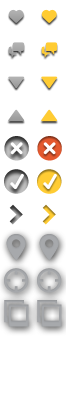
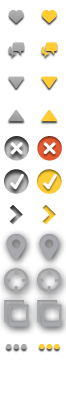
add pallette for flagging / deleting images

Changed region(s): [[0.5758, 0.8485, 0.9091, 0.9091], [0.0909, 0.8485, 0.4242, 0.9091]]

diff --git a/theme/skol/css/theme.css b/theme/skol/css/theme.css
@@ -359,6 +359,9 @@
 .action-icons .ui-icon-pics {
   background-position: 0px -198px;
 }
+.action-icons .ui-icon-more {
+  background-position: 0px -220px;
+}
 .action-icons.selected .ui-icon-heart,
 .action-icons.ui-btn-hover-a .ui-icon-heart,
 .action-icons.ui-btn-down-a .ui-icon-heart,
@@ -568,6 +571,27 @@
 .action-icons.ui-btn-down-z .ui-icon-pics,
 .action-icons.ui-btn-active-z .ui-icon-pics {
   background-position: -22px -198px;
+}
+.action-icons.selected .ui-icon-more,
+.action-icons.ui-btn-hover-a .ui-icon-more,
+.action-icons.ui-btn-down-a .ui-icon-more,
+.action-icons.ui-btn-active-a .ui-icon-more,
+.action-icons.ui-btn-hover-b .ui-icon-more,
+.action-icons.ui-btn-down-b .ui-icon-more,
+.action-icons.ui-btn-active-b .ui-icon-more,
+.action-icons.ui-btn-hover-c .ui-icon-more,
+.action-icons.ui-btn-down-c .ui-icon-more,
+.action-icons.ui-btn-active-c .ui-icon-more,
+.action-icons.ui-btn-hover-d .ui-icon-more,
+.action-icons.ui-btn-down-d .ui-icon-more,
+.action-icons.ui-btn-active-d .ui-icon-more,
+.action-icons.ui-btn-hover-e .ui-icon-more,
+.action-icons.ui-btn-down-e .ui-icon-more,
+.action-icons.ui-btn-active-e .ui-icon-more,
+.action-icons.ui-btn-hover-z .ui-icon-more,
+.action-icons.ui-btn-down-z .ui-icon-more,
+.action-icons.ui-btn-active-z .ui-icon-more {
+  background-position: -22px -220px;
 }
 .dark-icons .ui-btn .ui-btn-inner .ui-icon {
   background-image: url('../gfx/action-icons-dark.png');
@@ -1793,7 +1817,7 @@ a.ui-link-inherit {
   background: none!important;
 }
 .ui-body-b {
-  background: #000000;
+  background: #2a2a2a;
   background-image: url('../gfx/bg-texture-dark.gif');
   border: none;
 }
@@ -4414,11 +4438,33 @@ div[data-role="content"] .s-feed-header.s-inline-header .s-username .s-small-tex
 .s-image-item-block .s-image-description .x-goto-spot {
   color: #ffcc33;
 }
-.s-image-item-block .s-image-item-base .s-text-symbol {
+.s-image-item-block .s-image-item-base .x-comment .s-text-symbol {
   display: none;
 }
-.s-image-item-block .s-image-item-base .s-hide-text {
+.s-image-item-block .s-image-item-base .x-comment .s-hide-text {
   display: inline-block;
+}
+.s-image-item-block .s-image-item-base .x-favorite .s-text-symbol {
+  display: inline-block;
+}
+.s-image-item-block .s-image-item-base .x-favorite .s-hide-text {
+  display: none;
+}
+.s-image-item-block .s-image-item-base .x-favorite[data-count="0"] .ui-btn-inner {
+  padding: 0 6px!important;
+}
+.s-image-item-block .s-image-item-base .x-favorite[data-count="0"] .ui-btn-inner .ui-icon {
+  left: 1px;
+}
+.s-image-item-block .s-image-item-base .x-more-button.ui-btn.action-icons .s-text-symbol,
+.s-image-item-block .s-image-item-base .x-more-button.ui-btn.action-icons .s-hide-text {
+  display: none;
+}
+.s-image-item-block .s-image-item-base .x-more-button.ui-btn.action-icons .ui-btn-inner {
+  padding: 0 6px;
+}
+.s-image-item-block .s-image-item-base .x-more-button.ui-btn.action-icons .ui-btn-inner .ui-icon {
+  left: 1px;
 }
 .s-image-item-block .s-image-actions {
   margin-top: 10px;
@@ -4440,9 +4486,6 @@ div[data-role="content"] .s-feed-header.s-inline-header .s-username .s-small-tex
   -moz-border-radius: 30px;
   border-radius: 30px;
   border: solid 1px #1e2122;
-}
-.s-image-item-block .s-image-actions .x-more-button {
-  display: none;
 }
 .s-image-item-block .s-image-actions .s-inline-btn {
   display: inline-block;
@@ -4557,13 +4600,21 @@ div[data-role="content"] .s-feed-header.s-inline-header .s-username .s-small-tex
   display: inherit;
 }
 .s-has-palette .s-action-palette {
-  left: 22px;
+  left: 14px;
+  margin-bottom: 12px;
 }
 .s-has-palette .s-action-palette .s-center-palette .s-inline-palette {
   -webkit-border-radius: 10px;
   -moz-border-radius: 10px;
   border-radius: 10px;
   padding: 6px;
+  background: #1f2122;
+  background-image: none;
+}
+.s-has-palette .s-action-palette .s-center-palette .s-inline-palette .ui-controlgroup-controls {
+  top: 0;
+  margin: 0;
+  padding: 0;
 }
 .s-has-palette .s-action-palette .s-center-palette .s-inline-palette::after {
   width: 0;

diff --git a/theme/skol/css/main.less b/theme/skol/css/main.less
@@ -1362,12 +1362,43 @@ div[data-role="content"]{
         }
     }
     .s-image-item-base{
-        .s-text-symbol{
-            display: none;
+        .x-comment{
+             .s-text-symbol{
+                    display: none;
+                }
+                .s-hide-text{
+                    display: inline-block;
+                }
         }
-        .s-hide-text{
-            display: inline-block;
+        .x-favorite{
+             .s-text-symbol{
+                    display: inline-block;
+                }
+                .s-hide-text{
+                    display: none;
+                }
+                &[data-count="0"]{
+                    .ui-btn-inner{
+                        padding: 0 6px!important;
+                        .ui-icon {
+                            left: 1px;
+                        }
+                    }
+                }
         }
+        .x-more-button.ui-btn.action-icons{
+            .s-text-symbol,
+            .s-hide-text{
+                display: none;
+            }
+            .ui-btn-inner{
+                padding: 0 6px;
+                .ui-icon {
+                    left: 1px;
+                }
+            }
+        }
+       
     }
     .s-image-actions{
         margin-top: @padding * 2;
@@ -1386,11 +1417,7 @@ div[data-role="content"]{
                 border: @borderBlack;
             }
         }
-        
-        .x-more-button{
-            display: none;
-        }
-        
+
         .s-inline-btn{
             display: inline-block;
         }
@@ -1514,11 +1541,19 @@ div[data-role="content"]{
 
 .s-has-palette{
     .s-action-palette{
-        left: @gfxDark-grid / 2 + 2px;
+        left: 14px;
+        margin-bottom: 12px;
         .s-center-palette{
             .s-inline-palette{
                 .border-radius(10px);
                 padding: 6px;
+                background: #1f2122;
+                background-image: none;
+                .ui-controlgroup-controls{
+                    top: 0;
+                    margin: 0;
+                    padding: 0; 
+                }
                 &::after{
                     .arrow-down(@arrowSize, @blackTint, 50%, @arrowYShift + 3px);
                 }

diff --git a/app/templates/components/feed/list_item.html b/app/templates/components/feed/list_item.html
@@ -57,7 +57,7 @@
 
     <div class="s-image-item-base">
         <div data-role="controlgroup" data-type="horizontal" class="s-image-actions x-image-actions" data-theme="z">
-            <a data-role="button" data-theme="z" data-icon="heart" data-iconpos="left" class="x-favorite action-icons <% if (item.get('favorite')){ %> selected <% }%>" >
+            <a data-role="button" data-theme="z" data-icon="heart" data-iconpos="left" class="x-favorite action-icons" data-count="<%= item.get('favorite_count') %>" <% if (item.get('favorite')){ %> selected <% }%>" >
             <% if (item.get('favorite_count') > 0){ %>
                 <span class="s-text-symbol">&times; </span>
                 <%= item.get('favorite_count') %>
@@ -66,7 +66,7 @@
                 <span class="s-hide-text"> <%= T('Like') %> </span>&nbsp;<%}%>
             </a>
 
-            <a data-role="button" data-icon="comment" data-inline="true" data-iconpos="left" class="x-comment action-icons" data-theme="z">
+            <a data-role="button" data-icon="comment" data-inline="true" data-iconpos="left" data-count="<%= item.get('comments') %>" class="x-comment action-icons" data-theme="z">
 
                 <% if (item.get('comments') > 0){ %>
                     <span class="s-text-symbol">&times; </span>

diff --git a/theme/skol/css/icons.less b/theme/skol/css/icons.less
@@ -156,6 +156,8 @@
     .ui-icon-venue    {   background-position: @gfxAction-x @gfxAction-venue-y}
     .ui-icon-location {   background-position: @gfxAction-x @gfxAction-location-y}
     .ui-icon-pics {   background-position: @gfxAction-x @gfxAction-pics-y}
+    .ui-icon-more {   background-position: @gfxAction-x @gfxAction-more-y}
+
     
     &.selected,
     &.ui-btn-hover-a, &.ui-btn-down-a, &.ui-btn-active-a,
@@ -174,6 +176,7 @@
         .ui-icon-venue    {   background-position: @gfxAction-x-hover @gfxAction-venue-y}
         .ui-icon-location {   background-position: @gfxAction-x-hover @gfxAction-location-y}
         .ui-icon-pics {   background-position: @gfxAction-x-hover @gfxAction-pics-y}
+        .ui-icon-more {   background-position: @gfxAction-x-hover @gfxAction-more-y}
     
     }
 }

diff --git a/theme/skol/config.js b/theme/skol/config.js
@@ -27,7 +27,7 @@ return {
         app_sharing_opt_in_messaqge: 'Toggle the Skol sharing button to submit your photo to be featured in this app and on Skol&rsquo;s websites. You can also share to Facebook, Twitter &amp; Foursquare.',
 
         privacy_controls: false,
-        moderation_controls: false,
+        moderation_controls: true,
         follow_controls: false,
         photoswipe: false,
 

diff --git a/theme/skol/css/sprites.less b/theme/skol/css/sprites.less
@@ -88,6 +88,7 @@
 @gfxAction-venue-y:             -7 * @gfxAction-grid;
 @gfxAction-location-y:          -8 * @gfxAction-grid;
 @gfxAction-pics-y:              -9 * @gfxAction-grid;
+@gfxAction-more-y:              -10 * @gfxAction-grid;
 
 
 @gfxAction-x:                   -0 * @gfxAction-grid;

diff --git a/theme/skol/css/swatches.less b/theme/skol/css/swatches.less
@@ -157,7 +157,7 @@
 // -----------------------------
 
 .ui-body-b{
-    background: @black;
+    background: @grayDarker;
     background-image: @gfxBgDark;
     border: none;
 }
